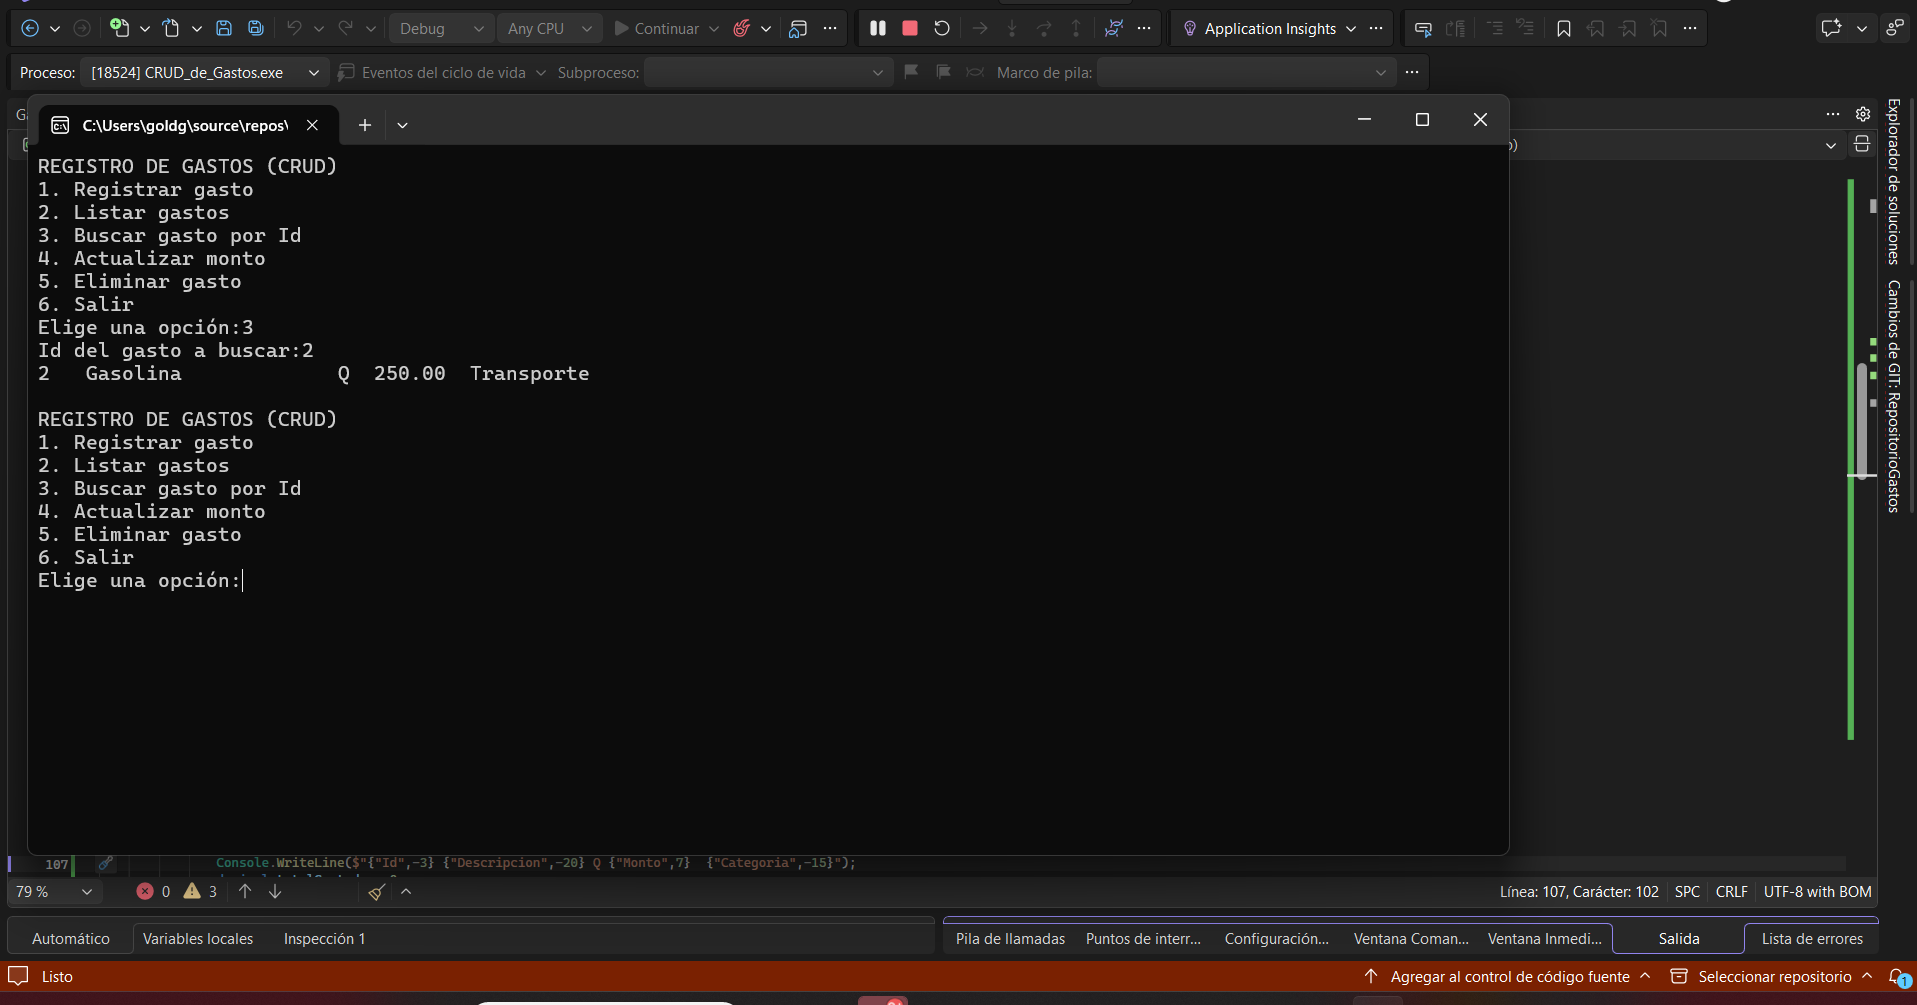
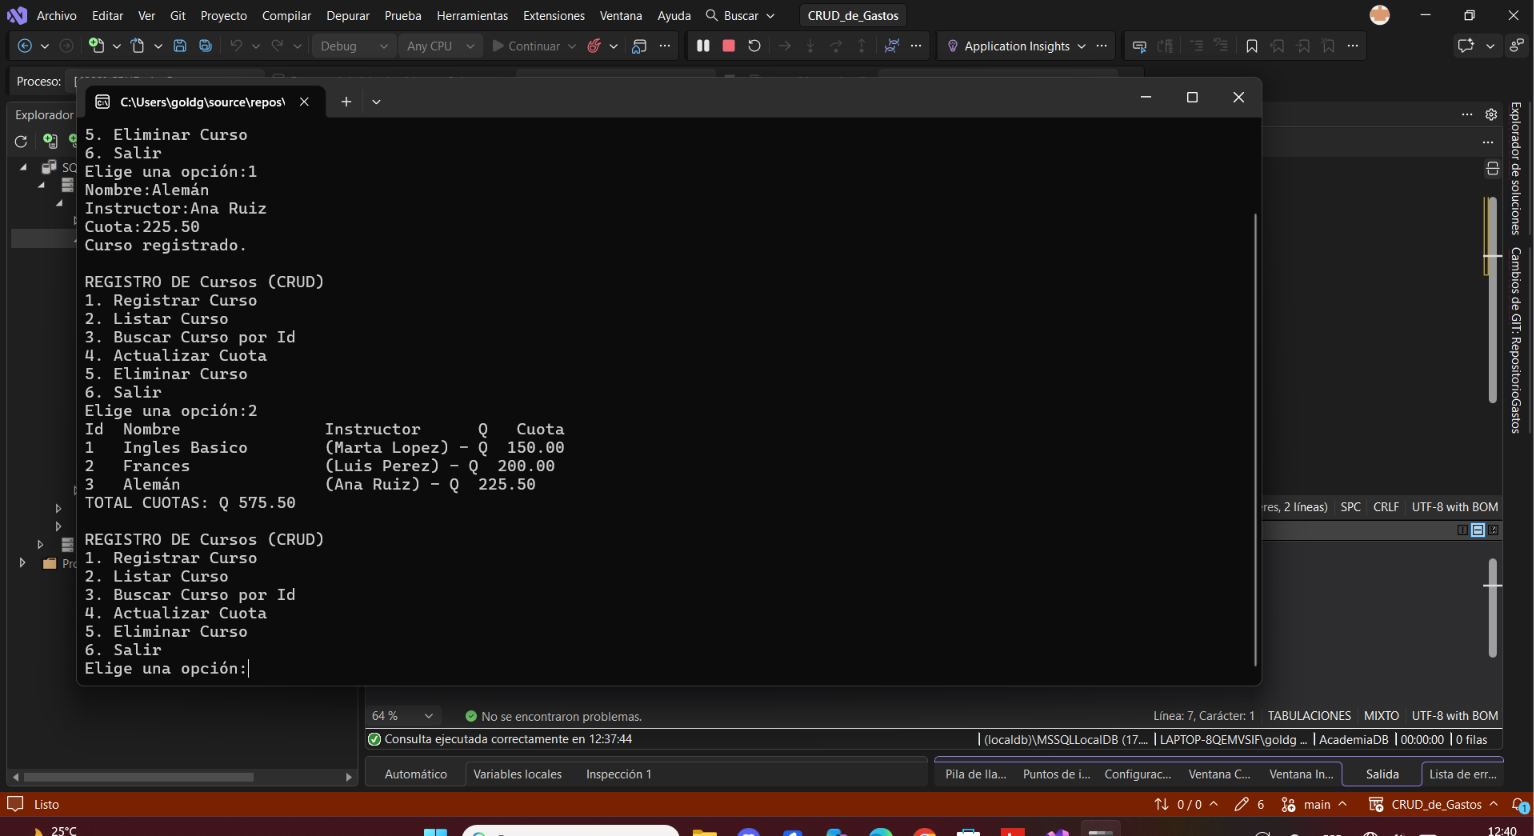
EXAMEN FINAL

diff --git a/Program.cs b/Program.cs
@@ -9,7 +9,7 @@ namespace CRUD_de_Gastos
     {
         public static void Main(string[] args)
         {
-            GastoRepositorio repo = new GastoRepositorio();
+            CursoRepositorio repo = new CursoRepositorio();
             string opcion;
 
             do
@@ -19,16 +19,16 @@ namespace CRUD_de_Gastos
                 switch (opcion)
                 {
                     case "1":
-                        RegistrarGasto(repo);
+                        RegistrarCurso(repo);
                         break;
                     case "2":
-                        ListarGastos(repo);
+                        ListarCurso(repo);
                         break;
                     case "3":
-                        BuscarGastoPorId(repo);
+                        BuscarCursoPorId(repo);
                         break;
                     case "4":
-                        ActualizarMontoGasto(repo);
+                        ActualizarCuotaCurso(repo);
                         break;
                     case "5":
                         EliminarGasto(repo);
@@ -48,29 +48,29 @@ namespace CRUD_de_Gastos
 
         private static string LeerOpcionMenu()
         {
-            Console.WriteLine("REGISTRO DE GASTOS (CRUD)");
-            Console.WriteLine("1. Registrar gasto");
-            Console.WriteLine("2. Listar gastos");
-            Console.WriteLine("3. Buscar gasto por Id");
-            Console.WriteLine("4. Actualizar monto");
-            Console.WriteLine("5. Eliminar gasto");
+            Console.WriteLine("REGISTRO DE Cursos (CRUD)");
+            Console.WriteLine("1. Registrar Curso");
+            Console.WriteLine("2. Listar Curso");
+            Console.WriteLine("3. Buscar Curso por Id");
+            Console.WriteLine("4. Actualizar Cuota");
+            Console.WriteLine("5. Eliminar Curso");
             Console.WriteLine("6. Salir");
             Console.Write("Elige una opción:");
             return Console.ReadLine().Trim();
         }
 
-        private static void RegistrarGasto(GastoRepositorio repo)
+        private static void RegistrarCurso(CursoRepositorio repo)
         {
-            Console.Write("Descripción:");
-            string descripcion = Console.ReadLine().Trim();
+            Console.Write("Nombre:");
+            string Nombre = Console.ReadLine().Trim();
 
-            Console.Write("Monto:");
-            bool montoOk = decimal.TryParse(Console.ReadLine(), out decimal monto);
+            Console.Write("Instructor:");
+            string Instructor = Console.ReadLine().Trim();
 
-            Console.Write("Categoría:");
-            string categoria = Console.ReadLine().Trim();
+            Console.Write("Cuota:");
+            bool CuotaOk = decimal.TryParse(Console.ReadLine(), out decimal Cuota);
 
-            if (!montoOk || monto <= 0 || string.IsNullOrWhiteSpace(descripcion) || string.IsNullOrWhiteSpace(categoria))
+            if (!CuotaOk || Cuota <= 0 || string.IsNullOrWhiteSpace(Nombre) || string.IsNullOrWhiteSpace(Instructor))
             {
                 Console.WriteLine("Datos inválidos.");
                 return;
@@ -78,14 +78,14 @@ namespace CRUD_de_Gastos
 
             try
             {
-                Gasto nuevoGasto = new Gasto
+                curso nuevoCurso = new curso 
                 {
-                    Descripcion = descripcion,
-                    Monto = monto,
-                    Categoria = categoria
+                    Nombre = Nombre,
+                    Cuota = Cuota,
+                    Instructor = Instructor
                 };
-                repo.Insertar(nuevoGasto);
-                Console.WriteLine("Gasto registrado.");
+                repo.Insertar(nuevoCurso);
+                Console.WriteLine("Curso registrado.");
             }
             catch (SqlException ex)
             {
@@ -93,26 +93,26 @@ namespace CRUD_de_Gastos
             }
         }
 
-        private static void ListarGastos(GastoRepositorio repo)
+        private static void ListarCurso(CursoRepositorio repo)
         {
             try
             {
-                List<Gasto> lista = repo.ListarTodos();
+                List<curso> lista = repo.ListarTodos();
 
                 if (lista.Count == 0)
                 {
-                    Console.WriteLine("No hay gastos registrados.");
+                    Console.WriteLine("No hay Cursos registrados.");
                     return;
                 }
-                Console.WriteLine($"{"Id",-3} {"Descripcion",-20} Q {"Monto",7}  {"Categoria",-15}");
-                decimal totalGastado = 0;
-                foreach (Gasto g in lista)
+                Console.WriteLine($"{"Id",-3} {"Nombre",-20} {"Instructor",-15} Q {"Cuota",7}");
+                decimal totalCuotas = 0;
+                foreach (curso g in lista)
                 {
                     Console.WriteLine(g);
-                    totalGastado += g.Monto;
+                    totalCuotas += g.Cuota;
                 }
 
-                Console.WriteLine($"TOTAL GASTADO: Q {totalGastado:N2}");
+                Console.WriteLine($"TOTAL CUOTAS: Q {totalCuotas:N2}");
             }
             catch (SqlException ex)
             {
@@ -120,9 +120,9 @@ namespace CRUD_de_Gastos
             }
         }
 
-        private static void BuscarGastoPorId(GastoRepositorio repo)
+        private static void BuscarCursoPorId(CursoRepositorio repo)
         {
-            Console.Write("Id del gasto a buscar:");
+            Console.Write("Id del Curso a buscar:");
             if (!int.TryParse(Console.ReadLine(), out int id))
             {
                 Console.WriteLine("Id inválido.");
@@ -131,8 +131,8 @@ namespace CRUD_de_Gastos
 
             try
             {
-                Gasto? gasto = repo.BuscarPorId(id);
-                Console.WriteLine(gasto == null ? "No existe ese Id." : gasto.ToString());
+                curso? curso = repo.BuscarPorId(id);
+                Console.WriteLine(curso == null ? "No existe ese Id." : curso.ToString());
             }
             catch (SqlException ex)
             {
@@ -140,9 +140,9 @@ namespace CRUD_de_Gastos
             }
         }
 
-        private static void ActualizarMontoGasto(GastoRepositorio repo)
+        private static void ActualizarCuotaCurso(CursoRepositorio repo)
         {
-            Console.Write("Id del gasto a actualizar:");
+            Console.Write("Id del Curso a actualizar:");
             if (!int.TryParse(Console.ReadLine(), out int id))
             {
                 Console.WriteLine("Id inválido.");
@@ -151,24 +151,24 @@ namespace CRUD_de_Gastos
 
             try
             {
-                Gasto? gasto = repo.BuscarPorId(id);
-                if (gasto == null)
+                curso? Curso = repo.BuscarPorId(id);
+                if (Curso == null)
                 {
                     Console.WriteLine("No existe ese Id.");
                     return;
                 }
 
-                Console.WriteLine($"Gasto actual: {gasto}");
-                Console.Write("Nuevo monto:");
-                if (!decimal.TryParse(Console.ReadLine(), out decimal nuevoMonto) || nuevoMonto <= 0)
+                Console.WriteLine($"Gasto actual: {Curso}");
+                Console.Write("Nueva Cuota:");
+                if (!decimal.TryParse(Console.ReadLine(), out decimal nuevoCuota) || nuevoCuota <= 0)
                 {
-                    Console.WriteLine("Monto inválido.");
+                    Console.WriteLine("Cuota inválido.");
                     return;
                 }
 
-                gasto.Monto = nuevoMonto;
-                bool actualizado = repo.Actualizar(gasto);
-                Console.WriteLine(actualizado ? "Gasto actualizado." : "No se actualizó.");
+                Curso.Cuota = nuevoCuota;
+                bool actualizado = repo.Actualizar(Curso);
+                Console.WriteLine(actualizado ? "Curso actualizado." : "No se actualizó.");
             }
             catch (SqlException ex)
             {
@@ -176,9 +176,9 @@ namespace CRUD_de_Gastos
             }
         }
 
-        private static void EliminarGasto(GastoRepositorio repo)
+        private static void EliminarGasto(CursoRepositorio repo)
         {
-            Console.Write("Id del gasto a eliminar:");
+            Console.Write("Id del Curso a eliminar:");
             if (!int.TryParse(Console.ReadLine(), out int id))
             {
                 Console.WriteLine("Id inválido.");
@@ -188,7 +188,7 @@ namespace CRUD_de_Gastos
             try
             {
                 bool eliminado = repo.Eliminar(id);
-                Console.WriteLine(eliminado ? "Gasto eliminado." : "No existe ese Id.");
+                Console.WriteLine(eliminado ? "Curso eliminado." : "No existe ese Id.");
             }
             catch (SqlException ex)
             {

diff --git a/CursoRepositorio.cs b/CursoRepositorio.cs
@@ -5,35 +5,35 @@ using System.Collections.Generic;
 
 namespace CRUD_de_Gastos
 {
-    public class GastoRepositorio
+    public class CursoRepositorio
     {
         private const string CadenaConexion =
             @"Server=(localdb)\MSSQLLocalDB;" +
-            @"Database=GastosDB;" +
+            @"Database=AcademiaDB;" +
             @"Trusted_Connection=True;" +
             @"TrustServerCertificate=True;";
 
-        public void Insertar(Gasto g)
+        public void Insertar(curso g)
         {
-            string sql = "INSERT INTO Gastos (Descripcion, Monto, Categoria) " +
-                         "VALUES (@descripcion, @monto, @categoria)";
+            string sql = "INSERT INTO Cursos (Nombre, Instructor, Cuota) " +
+                         "VALUES (@Nombre, @Instructor, @Cuota)";
 
             using (SqlConnection conexion = new SqlConnection(CadenaConexion))
             using (SqlCommand comando = new SqlCommand(sql, conexion))
             {
-                comando.Parameters.AddWithValue("@descripcion", g.Descripcion);
-                comando.Parameters.AddWithValue("@monto", g.Monto);
-                comando.Parameters.AddWithValue("@categoria", g.Categoria);
+                comando.Parameters.AddWithValue("@Nombre", g.Nombre);
+                comando.Parameters.AddWithValue("@Instructor", g.Instructor);
+                comando.Parameters.AddWithValue("@Cuota", g.Cuota);
 
                 conexion.Open();
                 comando.ExecuteNonQuery();
             }
         }
 
-        public List<Gasto> ListarTodos()
+        public List<curso> ListarTodos()
         {
-            var lista = new List<Gasto>();
-            string sql = "SELECT Id, Descripcion, Monto, Categoria FROM Gastos ORDER BY Id";
+            var lista = new List<curso>();
+            string sql = "SELECT Id, Nombre, Instructor, Cuota FROM Cursos ORDER BY Id";
 
             using (SqlConnection conexion = new SqlConnection(CadenaConexion))
             using (SqlCommand comando = new SqlCommand(sql, conexion))
@@ -43,12 +43,12 @@ namespace CRUD_de_Gastos
                 {
                     while (lector.Read())
                     {
-                        lista.Add(new Gasto
+                        lista.Add(new curso
                         {
                             Id = lector.GetInt32(0),
-                            Descripcion = lector.GetString(1),
-                            Monto = lector.GetDecimal(2),
-                            Categoria = lector.GetString(3)
+                            Nombre = lector.GetString(1),
+                            Cuota = lector.GetDecimal(3),
+                            Instructor = lector.GetString(2)
                         });
                     }
                 }
@@ -56,9 +56,9 @@ namespace CRUD_de_Gastos
             return lista;
         }
 
-        public Gasto? BuscarPorId(int id)
+        public curso? BuscarPorId(int id)
         {
-            string sql = "SELECT Id, Descripcion, Monto, Categoria FROM Gastos WHERE Id = @id";
+            string sql = "SELECT Id, Nombre, Instructor, Cuota FROM Cursos WHERE Id = @id";
 
             using (SqlConnection conexion = new SqlConnection(CadenaConexion))
             using (SqlCommand comando = new SqlCommand(sql, conexion))
@@ -70,46 +70,46 @@ namespace CRUD_de_Gastos
                 {
                     if (lector.Read())
                     {
-                        return new Gasto
+                        return new curso
                         {
                             Id = lector.GetInt32(0),
-                            Descripcion = lector.GetString(1),
-                            Monto = lector.GetDecimal(2),
-                            Categoria = lector.GetString(3)
+                            Nombre = lector.GetString(1),
+                            Cuota = lector.GetDecimal(3),
+                            Instructor = lector.GetString(2)
                         };
                     }
                 }
             }
-            return null; 
+            return null;
         }
 
-        public bool Actualizar(Gasto g)
+        public bool Actualizar(curso g)
         {
-            string sql = "UPDATE Gastos SET Descripcion = @descripcion, Monto = @monto, Categoria = @categoria WHERE Id = @id";
+            string sql = "UPDATE Cursos SET Nombre = @Nombre, Instructor = @Instructor, Cuota = @Cuota WHERE Id = @id";
 
             using (SqlConnection conexion = new SqlConnection(CadenaConexion))
             using (SqlCommand comando = new SqlCommand(sql, conexion))
             {
-                comando.Parameters.AddWithValue("@descripcion", g.Descripcion);
-                comando.Parameters.AddWithValue("@monto", g.Monto);
-                comando.Parameters.AddWithValue("@categoria", g.Categoria);
+                comando.Parameters.AddWithValue("@Nombre", g.Nombre);
+                comando.Parameters.AddWithValue("@Instructor", g.Instructor);
+                comando.Parameters.AddWithValue("@Cuota", g.Cuota);
                 comando.Parameters.AddWithValue("@id", g.Id);
 
                 conexion.Open();
-                return comando.ExecuteNonQuery() == 1; 
+                return comando.ExecuteNonQuery() == 1;
             }
         }
 
         public bool Eliminar(int id)
         {
-            string sql = "DELETE FROM Gastos WHERE Id = @id";
+            string sql = "DELETE FROM Cursos WHERE Id = @id";
 
             using (SqlConnection conexion = new SqlConnection(CadenaConexion))
             using (SqlCommand comando = new SqlCommand(sql, conexion))
             {
                 comando.Parameters.AddWithValue("@id", id);
                 conexion.Open();
-                return comando.ExecuteNonQuery() == 1; 
+                return comando.ExecuteNonQuery() == 1;
             }
         }
     }

diff --git a/Curso.cs b/Curso.cs
@@ -1,0 +1,19 @@
+using System;
+using System.Collections.Generic;
+using System.Text;
+
+namespace CRUD_de_Gastos
+{
+    public class curso
+    {
+        public int Id { get; set; }
+        public string Nombre { get; set; } = "";
+        public decimal Cuota { get; set; }
+        public string Instructor { get; set; } = "";
+
+        public override string ToString()
+        {
+            return $"{Id,-3} {Nombre,-20} ({Instructor}) - Q {Cuota,7:N2}";
+        }
+    }
+}

diff --git a/README.MD b/README.MD
@@ -1,4 +1,4 @@
-CRUD repositorio gastos
+CRUD repositorio Cursos
 
 Cómo ejecutarlo:
 
@@ -14,9 +14,3 @@ O utiliza el comando dotnet run desde la terminal.
 
 ![Caso 3](img/img-3.png)
 
-![Caso 3](img/img-4.png)
-
-![Caso 4](img/img-5.png)
-
-Link de la explicacion:
-https://drive.google.com/drive/folders/11tfcFvyFLYCaIQ-5DkupvqmiDOUwi9Qe?usp=sharing
